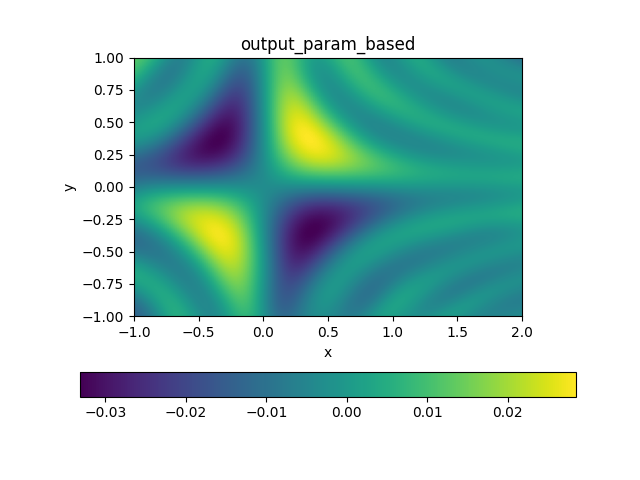
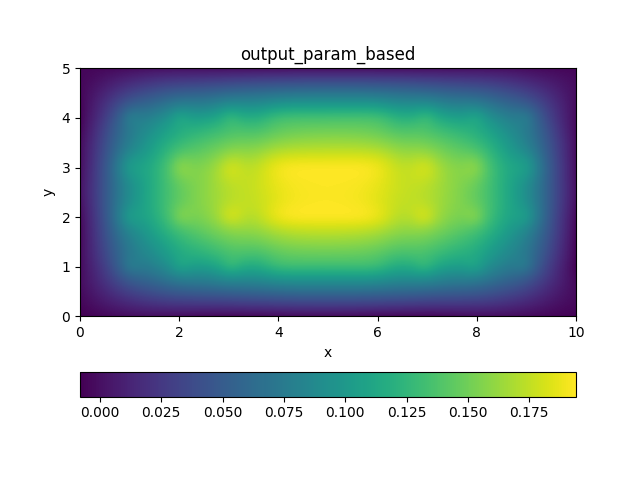
added way to choose source fn for pinn wave and laplacian. added param dict for nmfde a3. added 2d animation function for wave. other small changes

diff --git a/project8/neural_network/implementations/pinn_2d_wave.py b/project8/neural_network/implementations/pinn_2d_wave.py
@@ -29,6 +29,9 @@ def sourcefunc_wave(x: torch.Tensor, y: torch.Tensor, t: torch.Tensor,
     f = sourcefunc_A4(x, y, alpha)
     return f * torch.sin(omega * t)
 
+def simple_source(x: torch.Tensor, y: torch.Tensor, t: torch.Tensor) -> torch.Tensor:
+    return torch.sin(3*t*x*y)
+
 
 def F(coords: torch.Tensor) -> torch.Tensor:
     return sourcefunc_wave(coords[:, 0], coords[:, 1], coords[:, 2]).unsqueeze(
@@ -65,7 +68,7 @@ def fit_to_source(diff: aw.Differentiator) -> torch.Tensor:
 def train() -> None:
     device = utils.get_device()
     # init model
-    act_fn = torch.nn.Tanh()
+    act_fn = modules.FourierLike(64)
     model = models.NN.rectangular_fnn(3, 1, 64, 9, act_fn=act_fn)
     logging.info(model)
     model.to(device)
@@ -80,26 +83,18 @@ def train() -> None:
     optimizer = torch.optim.AdamW(model.parameters(), lr=1e-2)
     lr_scheduler = torch.optim.lr_scheduler.StepLR(optimizer, 20, gamma=0.99)
     diff = aw.Differentiator(function_to_attach=model)
-    coord_space = utils.ParameterSpace([[0, 5], [0, 2.5], [0, 1]], device)
+    coord_space = utils.ParameterSpace([[0, 5], [0, 2.5], [0, 5]], device)
     domain_data_loader = utils.DataLoader(
-        coord_space.rand(100_000_000), 10000, device=device,
+        coord_space.rand(10_000_000), 10000, device=device,
         output_requires_grad=True)
-    bc_select = torch.tensor([[1, 1], [1, 1], [0, 0]], device=device,
+    bc_select = torch.tensor([[1, 1], [1, 1], [1, 0]], device=device,
                              dtype=torch.float64)
     bc_data_loader = utils.DataLoader(
-        coord_space.select_bndry_rand(100000, bc_select), 800, device=device,
+        coord_space.select_bndry_rand(1_000_000, bc_select), 5000, device=device,
         output_requires_grad=True)
-    ic_select = torch.tensor([[0, 0], [0, 0], [1, 0]], device=device,
-                             dtype=torch.float64)
-    ic_data_loader = utils.DataLoader(
-        coord_space.select_bndry_rand(100000, ic_select), 300, device=device,
-        output_requires_grad=True)
-    grid_dl = utils.DataLoader(coord_space.fgrid(50), 50, device=device,
-                               output_requires_grad=True)
     problem: list[list[Any]] = [
         [pinn_wave_pde, domain_data_loader, 1],
         [pinn_wave_bc, bc_data_loader, 1],
-        [pinn_wave_ic, ic_data_loader, 1]
     ]
     problem_2: list[list[Any]] = [
         [fit_to_source, domain_data_loader, 1]
@@ -108,7 +103,7 @@ def train() -> None:
     # train
     for epoch in range(n_epochs):
         loss: torch.Tensor = torch.tensor(0.0, device=device)
-        for i in problem_2:
+        for i in problem:
             diff.set_input(i[1]())
             loss += i[2] * i[0](diff)
         optimizer.zero_grad()
@@ -127,17 +122,10 @@ def train() -> None:
     source_fn = F(grid)
     x, y, t = coord_space.regrid(grid)
     f = coord_space.regrid(output)[0]
+    source = coord_space.regrid(source_fn)[0]
 
-    t_id = 0
-    utils.plot_2d(x[t_id, :, :], y[t_id, :, :], f[t_id, :, :],
-                  title='output_wave1', fig_id=2)
-    t_id = 20
-    utils.plot_2d(x[t_id, :, :], y[t_id, :, :], f[t_id, :, :],
-                  title='output_wave2', fig_id=3)
-    t_id = 49
-    utils.plot_2d(x[t_id, :, :], y[t_id, :, :], f[t_id, :, :],
-                  title='output_wave3', fig_id=4)
-
+    utils.anim_2d(x, y, t, f, title='output_wave', fig_id=5)
+    utils.anim_2d(x, y, t, source, title='output_wave', fig_id=5)
 
 def main() -> None:
     tmr = utils.Timer()

diff --git a/project8/neural_network/utils.py b/project8/neural_network/utils.py
@@ -4,6 +4,7 @@ import torch
 import numpy as np
 import matplotlib.pyplot as plt
 from mpl_toolkits.mplot3d import Axes3D  # type: ignore
+import matplotlib.animation as animation # type: ignore
 from warnings import warn
 import time
 import os
@@ -83,10 +84,43 @@ def plot_plane(x: Union[torch.Tensor, np.ndarray[Any, Any]],
     ax.set_title(title)
     plt.savefig(plot_folder + '/' + filename)
 
+def anim_2d(x: Union[torch.Tensor, np.ndarray[Any, Any]],
+            y: Union[torch.Tensor, np.ndarray[Any, Any]],
+            t: Union[torch.Tensor, np.ndarray[Any, Any]],
+            f: Union[torch.Tensor, np.ndarray[Any, Any]], title: str,
+            fig_id: int = 0,
+            filename: str = '') -> None:
+    x, y, t, f = if_tensors_to_numpy(x, y, t, f)
+    if filename == '':
+        filename = title + '.gif'
+    fig = plt.figure(fig_id)
+    domain = (x.min(), x.max(), y.min(), y.max())
+    im = plt.imshow(f[0, :, :], extent=domain, origin='lower')
+    plt.xlabel('x')
+    plt.ylabel('y')
+    tlt = plt.title(title)
+    if domain[1] - domain[0] < 1.1 * (domain[3] - domain[2]):
+        plt.colorbar(orientation='vertical')
+    else:
+        plt.colorbar(orientation='horizontal')
+    im.set_clim(-np.abs(f).max(), np.abs(f).max())
+    def animate(frame: int) -> Any:
+        data = f[frame, :, :]
+        current_time = t[frame, :, :].mean()
+        im.set_array(data)
+        tlt.set_text(title + f', t = {current_time:.2f}s')
+        return im,
+    t0 = t.min()
+    t1 = t.max()
+    interval = 1000 * (t1 - t0) / t.shape[0]
+    anim = animation.FuncAnimation(fig, animate, frames=t.shape[0],
+                                   interval=interval, blit=True)
+    plt.show()
+
 
 class ParameterSpace:
     def __init__(self, domain: Iterable[Iterable[float]],
-                 device: str = 'cpu') -> None:
+                 device: str | torch.device = 'cpu') -> None:
         self.domain = torch.tensor(domain, dtype=torch.float64, device=device)
         self.device = device
         self.center = (self.domain[:, 1] + self.domain[:, 0]) / 2
@@ -94,6 +128,12 @@ class ParameterSpace:
         self.length = self.domain[:, 1] - self.domain[:, 0]
         self.uniform_bnrdy_prob = 1 - self.length / self.length.sum()
         self.size = self.domain.shape[0]
+
+    @staticmethod
+    def from_rand_data(data: torch.Tensor) -> 'ParameterSpace':
+        domain = torch.stack([data.min(0).values, data.max(0).values]).T
+        device = data.device
+        return ParameterSpace(domain, device)
 
     def rand(self, n: int) -> torch.Tensor:
         rand = torch.rand(n, self.domain.shape[0], device=self.device) * 2 - 1

diff --git a/project8/neural_network/implementations/param_dicts.py b/project8/neural_network/implementations/param_dicts.py
@@ -55,13 +55,41 @@ def pinn_2d_laplacian() -> utils.Params:
         'n_epochs': 5000,
         'loss_fn_batch_sizes': [100, 50],
         # problem definition
-        'loss_fns': [lf.PINN.nd_laplacian, lf.dirichlet_bc_penalty],
+        'loss_fns': [
+            lf.PINN.nd_laplacian(lf.sinxy_source),
+            lf.dirichlet_bc_penalty
+        ],
         'loss_weights': [1, 10],
         'loss_fn_data': [
             coord_space.rand(100000), coord_space.bndry_rand(100000)
         ],
     }
     return hyperparams
+
+
+def nmfde_a3() -> utils.Params:
+    hyperparams = default()
+    hyperparams['device'] = utils.get_device()
+    hyperparams['n_epochs'] = 5000
+    hyperparams['model_constructor'] = 'rectangular_fnn'
+    hyperparams['n_in'] = 2
+    hyperparams['n_out'] = 1
+    hyperparams['width'] = 64
+    hyperparams['depth'] = 9
+    hyperparams['act_fn'] = modules.FourierLike(64)
+    coord_space = utils.ParameterSpace([[0, 10], [0, 5]],
+                                       hyperparams['device'])
+    hyperparams['loss_fns'] = [
+        lf.PINN.nd_laplacian(lf.nmfde_a3_source),
+        lf.dirichlet_bc_penalty
+    ]
+    hyperparams['loss_weights'] = [1, 10]
+    hyperparams['loss_fn_data'] = [
+        coord_space.rand(100000), coord_space.bndry_rand(100000)
+    ]
+    hyperparams['loss_fn_batch_sizes'] = [300, 100]
+    return hyperparams
+
 
 
 def drm_2d_laplacian() -> utils.Params:
@@ -112,19 +140,19 @@ def pinn_2d_wave() -> utils.Params:
         'depth': 7,
         'weight_init_fn': torch.nn.init.xavier_uniform_,
         'bias_init_fn': torch.nn.init.zeros_,
-        'weight_init_kwargs': {'gain': 0.5},
+        'weight_init_kwargs': {'gain': 0.7},
         'bias_init_kwargs': {},
         # training params
         'optimizer': torch.optim.Adam,
-        'lr': 1e-3,
-        'n_epochs': 5000,
-        'loss_fn_batch_sizes': [1000, 800],
+        'lr': 1e-2,
+        'n_epochs': 1000,
+        'loss_fn_batch_sizes': [10000, 3000],
         # problem definition
-        'loss_fns': [lf.PINN.wave_2d, lf.dirichlet_bc_penalty],
-        'loss_weights': [1, 10],
+        'loss_fns': [lf.PINN.wave_2d(lf.nmfde_a4_wave), lf.dirichlet_bc_penalty],
+        'loss_weights': [100, 1000],
         'loss_fn_data': [
-            coord_space.rand(1000000),
-            coord_space.select_bndry_rand(1000000, boundary_select)
+            coord_space.rand(10_000_000),
+            coord_space.select_bndry_rand(1_000_000, boundary_select)
         ],
     }
     return hyperparams

diff --git a/project8/neural_network/implementations/loss_functions.py b/project8/neural_network/implementations/loss_functions.py
@@ -1,6 +1,7 @@
 from project8.neural_network import models
 from project8.neural_network.differential_operators import *
 import torch
+from typing import Callable
 
 
 def dirichlet_bc_penalty(model: models.NN) -> torch.Tensor:
@@ -11,7 +12,18 @@ def sinxy_source(input: torch.Tensor) -> torch.Tensor:
     return torch.sin(12 * input[:, 0] * input[:, 1]).unsqueeze(1)
 
 
-def wave_source(input: torch.Tensor) -> torch.Tensor:
+def nmfde_a3_source(input: torch.Tensor) -> torch.Tensor:
+    alpha = 40
+    x = input[:, 0].unsqueeze(1)
+    y = input[:, 1].unsqueeze(1)
+    sum = torch.zeros_like(x)
+    for i in range(1, 10):
+        for j in range(1, 5):
+            sum += torch.exp(-alpha * (x - i) ** 2 - alpha * (y - j) ** 2)
+    return sum
+
+
+def nmfde_a4_wave(input: torch.Tensor) -> torch.Tensor:
     Lx = 10
     Ly = 5
     alpha = 40
@@ -31,17 +43,24 @@ def wave_source(input: torch.Tensor) -> torch.Tensor:
 
 
 class PINN:
-    @staticmethod
-    def nd_laplacian(model: models.NN) -> torch.Tensor:
-        f = sinxy_source(model.input)
-        laplace = laplacian(model)
-        return (laplace + f).pow(2).mean()
+    class nd_laplacian:
+        def __init__(self, source: Callable[[torch.Tensor], torch.Tensor]) -> None:
+            self.source = source
 
-    @staticmethod
-    def wave_2d(model: models.NN) -> torch.Tensor:
-        f = wave_source(model.input)
-        residual = pd(model, 2, 2) - laplacian(model, time_dependent=True) - f
-        return residual.pow(2).mean()
+        def __call__(self, model: models.NN) -> torch.Tensor:
+            f = self.source(model.input)
+            laplace = laplacian(model)
+            return (laplace + f).pow(2).mean()
+
+    class wave_2d:
+        def __init__(self, source: Callable[[torch.Tensor], torch.Tensor]) -> None:
+            self.source = source
+
+        def __call__(self, model: models.NN) -> torch.Tensor:
+            t_dim_id = model.input.shape[1] - 1
+            f = self.source(model.input)
+            residual = pd(model, t_dim_id, t_dim_id) - laplacian(model, time_dependent=True) - f
+            return residual.pow(2).mean()
 
 
 class DRM:

diff --git a/project8/neural_network/implementations/param_based.py b/project8/neural_network/implementations/param_based.py
@@ -6,35 +6,29 @@ import torch
 import matplotlib.pyplot as plt
 from project8.neural_network.implementations import param_dicts
 
-# could also do something like this:
-class pinn_2d_poisson:
-    def __init__(self, params: utils.Params) -> None:
-        self.device = utils.get_device()
-        self.hyperparams: utils.Params = params
-        self.model = models.NN.from_param_dict(self.hyperparams)
-        self.trnr = trainer.trainer(self.model, self.hyperparams, verbose=True)
-
-    def train(self) -> None:
-        self.trnr.train()
-
-    def test(self) -> float:
-        return self.trnr.loss().item()
 
 
 def main() -> None:
-    hyperparams = param_dicts.pinn_2d_laplacian()
+    hyperparams = param_dicts.pinn_2d_wave()
+    coord_space = utils.ParameterSpace.from_rand_data(
+        hyperparams['loss_fn_data'][1])
+    print(coord_space.domain)
     model = models.NN.from_param_dict(hyperparams)
     trnr = trainer.trainer(model, hyperparams, verbose=True)
     trnr.train()
-    coord_space = utils.ParameterSpace([[-1, 2], [-1, 1]],
-                                       hyperparams['device'])
     # plot output
-    grid = coord_space.fgrid(200)
-    output = model(grid)
-    x, y = coord_space.regrid(grid)
-    f = coord_space.regrid(output)[0]
-    utils.plot_2d(x, y, f, title='output_param_based', fig_id=2)
-    pass
+    if hyperparams['n_in'] == 2 and hyperparams['n_out'] == 1:
+        grid = coord_space.fgrid(200)
+        output = model(grid)
+        x, y = coord_space.regrid(grid)
+        f = coord_space.regrid(output)[0]
+        utils.plot_2d(x, y, f, title='output_param_based', fig_id=2)
+    elif hyperparams['n_in'] == 3 and hyperparams['n_out'] == 1:
+        grid = coord_space.fgrid(50)
+        output = model(grid)
+        x, y, t = coord_space.regrid(grid)
+        f = coord_space.regrid(output)[0]
+        utils.anim_2d(x, y, t, f, title='output_param_based', fig_id=2)
 
 
 if __name__ == '__main__':

diff --git a/project8/neural_network/trainer.py b/project8/neural_network/trainer.py
@@ -40,21 +40,19 @@ class trainer:
             out += self.eval_loss_fn(i)
         return out
 
+    def step(self) -> None:
+        self.optimizer.zero_grad()
+        loss = self.loss()
+        loss.backward()  # type: ignore
+        self.loss_history.append(loss.item())
+        self.optimizer.step()
+
     def train(self) -> None:
         self.timer.start()
-        for epoch in range(self.params['n_epochs']):
-            self.optimizer.zero_grad()
-            loss = self.loss()
-            loss.backward()  # type: ignore
-            self.loss_history.append(loss.item())
-            self.optimizer.step()
-            if self.verbose and (
-                    epoch % 100 == 0 or epoch == self.params['n_epochs'] - 1):
+        for epoch in range(1, self.params['n_epochs']+1):
+            self.step()
+            if (epoch % 100 == 0) and self.verbose:
                 print(f'Epoch: {epoch}, '
-                      f'Loss: {self.loss().item():.4f}, '
+                      f'Loss: {self.loss_history[-1]:.4f}, '
                       f'Time: {utils.format_time(self.timer.elapsed())}')
         self.timer.stop()
-        if self.verbose:
-            print(f'Training complete. '
-                  f'Time: {utils.format_time(self.timer.elapsed())}, '
-                  f'final loss: {self.loss().item()}')
